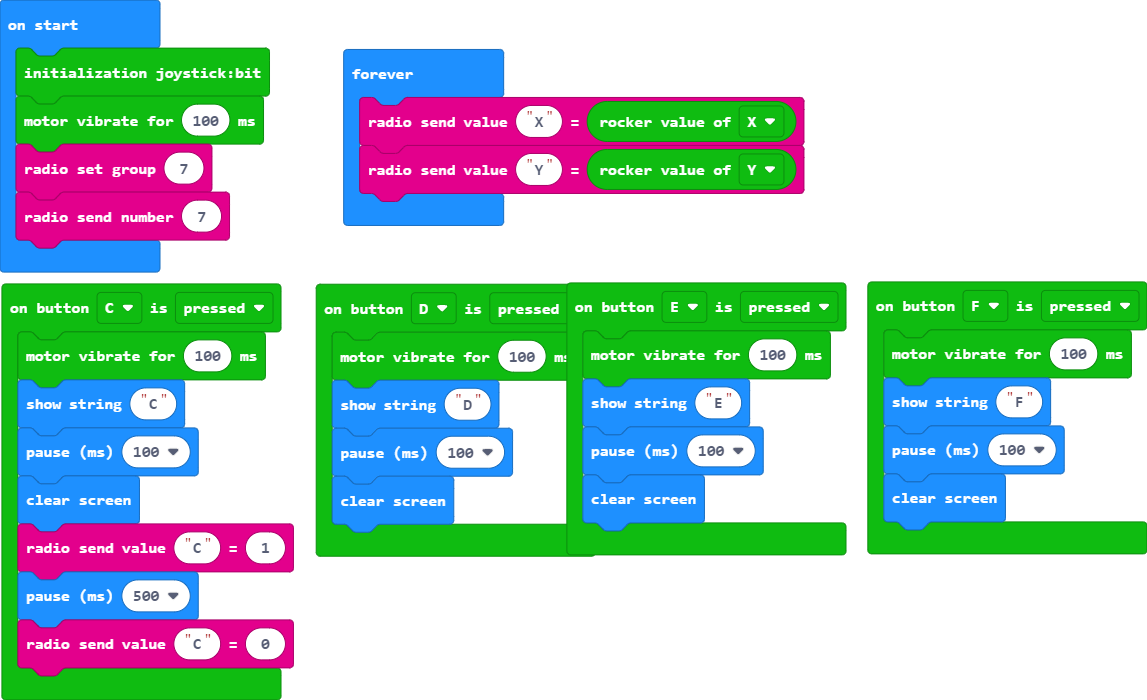
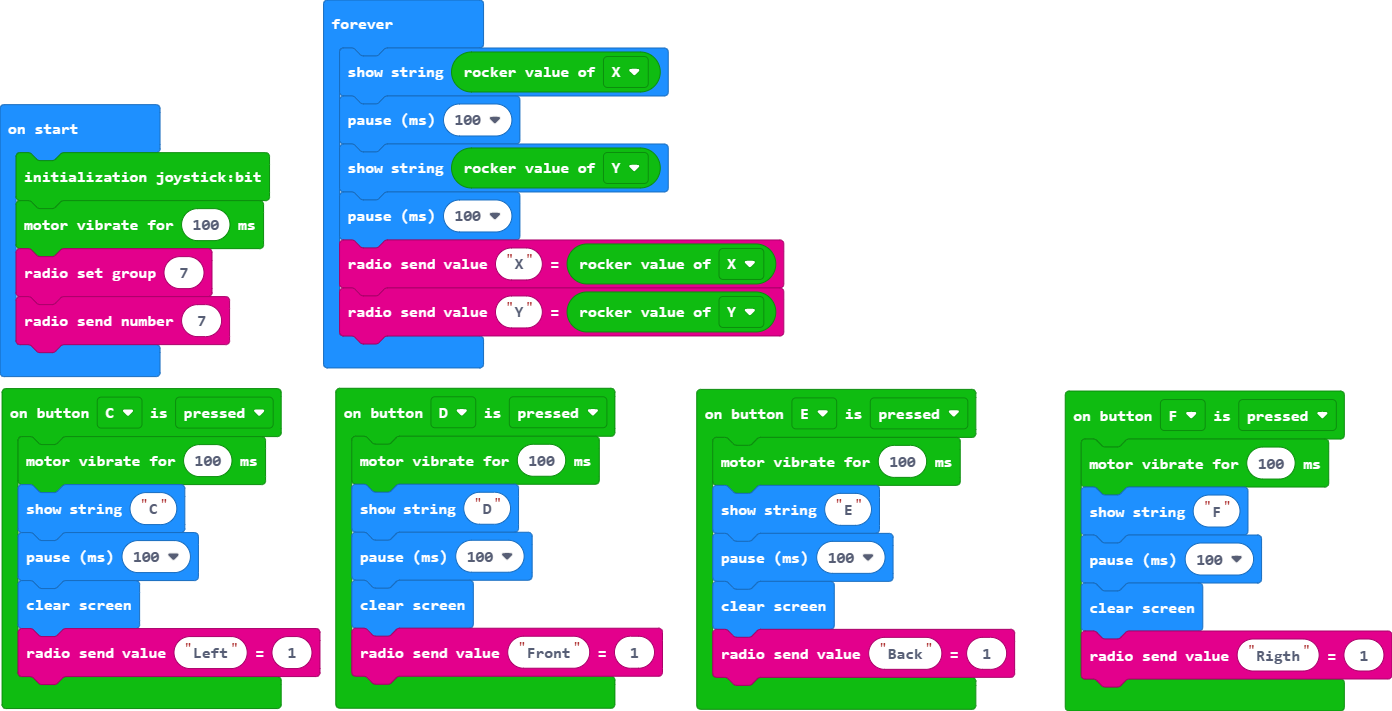
Update main.blocks, main.ts

diff --git a/main.ts b/main.ts
@@ -3,33 +3,38 @@ joystickbit.onButtonEvent(joystickbit.JoystickBitPin.P14, joystickbit.ButtonType
     basic.showString("E")
     basic.pause(100)
     basic.clearScreen()
+    radio.sendValue("Back", 1)
 })
 joystickbit.onButtonEvent(joystickbit.JoystickBitPin.P15, joystickbit.ButtonType.down, function () {
     joystickbit.Vibration_Motor(100)
     basic.showString("F")
     basic.pause(100)
     basic.clearScreen()
+    radio.sendValue("Rigth", 1)
 })
 joystickbit.onButtonEvent(joystickbit.JoystickBitPin.P13, joystickbit.ButtonType.down, function () {
     joystickbit.Vibration_Motor(100)
     basic.showString("D")
     basic.pause(100)
     basic.clearScreen()
+    radio.sendValue("Front", 1)
 })
 joystickbit.onButtonEvent(joystickbit.JoystickBitPin.P12, joystickbit.ButtonType.down, function () {
     joystickbit.Vibration_Motor(100)
     basic.showString("C")
     basic.pause(100)
     basic.clearScreen()
-    radio.sendValue("C", 1)
-    basic.pause(500)
-    radio.sendValue("C", 0)
+    radio.sendValue("Left", 1)
 })
 joystickbit.initJoystickBit()
 joystickbit.Vibration_Motor(100)
 radio.setGroup(7)
 radio.sendNumber(7)
 basic.forever(function () {
+    basic.showString("" + (joystickbit.getRockerValue(joystickbit.rockerType.X)))
+    basic.pause(100)
+    basic.showString("" + (joystickbit.getRockerValue(joystickbit.rockerType.Y)))
+    basic.pause(100)
     radio.sendValue("X", joystickbit.getRockerValue(joystickbit.rockerType.X))
     radio.sendValue("Y", joystickbit.getRockerValue(joystickbit.rockerType.Y))
 })
